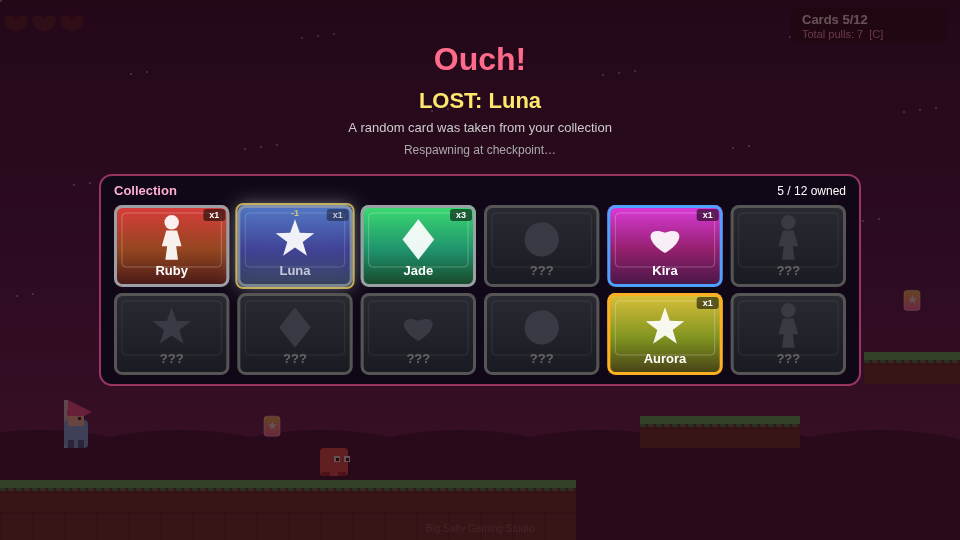
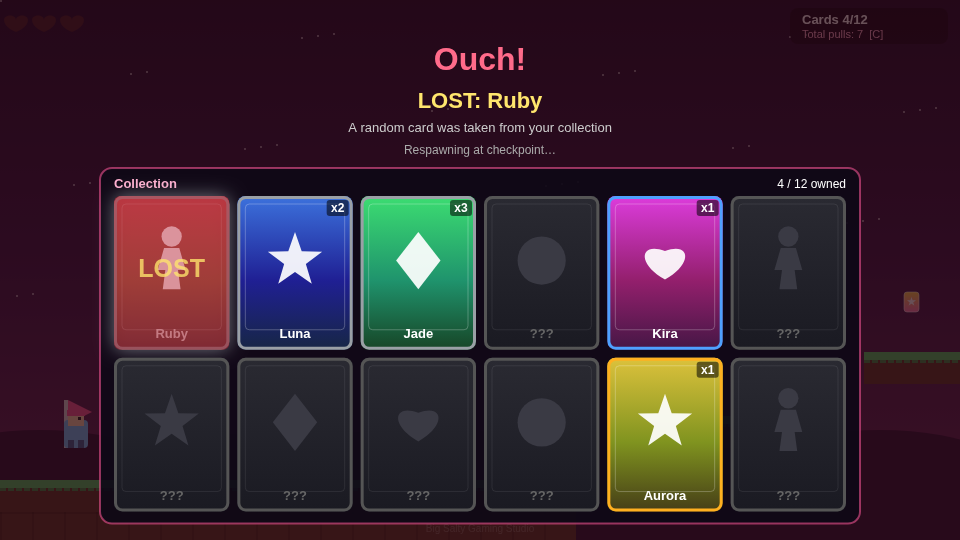
Enforce canonical 3:4 card aspect across all views
Shared CARD_ASPECT from slot 72×96; mini death/win panels size
the grid from width→height so cards are never squashed.

Changed region(s): [[0.0938, 0.2963, 0.9062, 0.9778], [0.4375, 0.1778, 0.5625, 0.2074], [0.9375, 0.5333, 0.9688, 0.563]]

diff --git a/index.html b/index.html
@@ -267,8 +267,16 @@ function drawSilhouette(cx, cy, size, shape, color, alpha) {
   ctx.restore();
 }
 
+// Canonical card aspect (width/height) from slot-roll card 72×96
+const CARD_ASPECT = 72 / 96; // 3/4
+function cardHeight(w) { return w / CARD_ASPECT; }
+function cardWidth(h) { return h * CARD_ASPECT; }
+
 function drawCard(char, x, y, w, h, opts) {
   opts = opts || {};
+  // Uniform scale only — height always derived from width via CARD_ASPECT
+  w = +w;
+  h = cardHeight(w);
   const rar = rarityOf(char.id);
   const locked = !!opts.locked;
   const glow = opts.glow || 0;
@@ -397,10 +405,13 @@ function makeCoins() {
     [89, 9],   // post-pit high ledge
     [121, 11], // near the goal / end perch
   ];
-  return spots.map(([tx,ty]) => ({
-    x: tx*TILE + 8, y: ty*TILE + 4, w: 16, h: 20,
-    collected: false, bob: Math.random()*Math.PI*2
-  }));
+  return spots.map(([tx,ty]) => {
+    const cw = 15;
+    return {
+      x: tx*TILE + 8, y: ty*TILE + 4, w: cw, h: cardHeight(cw),
+      collected: false, bob: Math.random()*Math.PI*2
+    };
+  });
 }
 
 // Enemies: type 'walker' | 'hopper'
@@ -1057,7 +1068,7 @@ function drawSlot() {
   }
 
   // card window
-  const cw = 72, ch = 96;
+  const cw = 72, ch = cardHeight(72); // canonical 72×96
   const gap = 14;
   const centerX = W/2;
   const cy = panelY + 40;
@@ -1109,7 +1120,7 @@ function drawCollection() {
   ctx.fillText("Press C or Esc to close", W/2, 64);
 
   const cols = 6, rows = 2;
-  const cw = 110, ch = 150, gapX = 24, gapY = 20;
+  const cw = 110, ch = cardHeight(110), gapX = 24, gapY = 20;
   const gridW = cols * cw + (cols - 1) * gapX;
   const startX = (W - gridW) / 2;
   const startY = 90;
@@ -1137,7 +1148,7 @@ function drawTitle() {
   // decorative cards
   for (let i = 0; i < 5; i++) {
     const ch = CHAR_DEFS[i * 2];
-    drawCard(ch, 60 + i * 180, 160 + Math.sin(performance.now()/500 + i)*10, 90, 120, {});
+    drawCard(ch, 60 + i * 180, 160 + Math.sin(performance.now()/500 + i)*10, 90, cardHeight(90), {});
   }
   ctx.fillStyle = "rgba(10,5,20,0.55)";
   ctx.fillRect(0, 0, W, H);
@@ -1164,16 +1175,41 @@ function drawTitle() {
 }
 
 // Compact collection strip for death / win overlays
+function layoutMiniCollection(panelW, maxPanelH) {
+  const cols = 6, rows = 2;
+  const gapX = 8, gapY = 8;
+  const padX = 14, padTop = 28, padBot = 12;
+  const gridW = panelW - padX * 2;
+  let cw = (gridW - gapX * (cols - 1)) / cols;
+  let ch = cardHeight(cw);
+  let contentH = padTop + rows * ch + (rows - 1) * gapY + padBot;
+  if (maxPanelH && contentH > maxPanelH) {
+    // Shrink uniformly so 2 rows fit without squashing
+    const maxCh = (maxPanelH - padTop - padBot - (rows - 1) * gapY) / rows;
+    ch = maxCh;
+    cw = cardWidth(ch);
+    contentH = padTop + rows * ch + (rows - 1) * gapY + padBot;
+  }
+  return { cols, rows, gapX, gapY, padX, padTop, padBot, cw, ch, contentH };
+}
+
 function drawMiniCollection(opts) {
   opts = opts || {};
-  const panelX = opts.x != null ? opts.x : 80;
-  const panelY = opts.y != null ? opts.y : H - 168;
-  const panelW = opts.w != null ? opts.w : W - 160;
-  const panelH = opts.h != null ? opts.h : 128;
+  const panelX = opts.x != null ? opts.x : 100;
+  const panelY = opts.y != null ? opts.y : 175;
+  const panelW = opts.w != null ? opts.w : W - 200;
+  const maxH = opts.maxH != null ? opts.maxH : (H - panelY - 20);
   const lostId = opts.lostId || null;
   const lostPrevCount = opts.lostPrevCount || 0;
   const animT = opts.animT != null ? opts.animT : 0;
   const animDur = opts.animDur != null ? opts.animDur : 2.2;
+
+  const L = layoutMiniCollection(panelW, maxH);
+  const panelH = L.contentH;
+
+  // Center grid horizontally if cards shrank below full width
+  const gridW = L.cols * L.cw + (L.cols - 1) * L.gapX;
+  const gridOriginX = panelX + (panelW - gridW) / 2;
 
   ctx.fillStyle = "rgba(12,8,22,0.88)";
   roundRect(panelX, panelY, panelW, panelH, 12);
@@ -1193,40 +1229,27 @@ function drawMiniCollection(opts) {
   ctx.textAlign = "right";
   ctx.fillText(unique + " / " + CHAR_DEFS.length + " owned", panelX + panelW - 14, panelY + 20);
 
-  const cols = 6, rows = 2;
-  const gapX = 8, gapY = 6;
-  const padX = 14, padTop = 30, padBot = 10;
-  const gridW = panelW - padX * 2;
-  const gridH = panelH - padTop - padBot;
-  const cw = (gridW - gapX * (cols - 1)) / cols;
-  const ch = (gridH - gapY * (rows - 1)) / rows;
-
   for (let i = 0; i < CHAR_DEFS.length; i++) {
-    const col = i % cols, row = Math.floor(i / cols);
-    const x = panelX + padX + col * (cw + gapX);
-    const y = panelY + padTop + row * (ch + gapY);
+    const col = i % L.cols, row = Math.floor(i / L.cols);
+    const x = gridOriginX + col * (L.cw + L.gapX);
+    const y = panelY + L.padTop + row * (L.ch + L.gapY);
     const char = CHAR_DEFS[i];
     const count = collection[char.id] || 0;
     const isLost = lostId && char.id === lostId;
+    const cw = L.cw, ch = L.ch;
 
     ctx.save();
     if (isLost) {
-      // Highlight + fade the lost slot over the death anim
       const u = Math.min(1, animT / animDur);
       const pulse = 0.55 + 0.45 * Math.sin(animT * 10);
       ctx.globalAlpha = Math.max(0.15, 1 - u * 0.85);
-      // Show as still "owned" visually during fade if it went to zero
-      const showCount = count > 0 ? count : Math.max(0, lostPrevCount - 1);
-      const locked = count <= 0 && lostPrevCount <= 1;
       if (count <= 0 && lostPrevCount >= 1) {
-        // draw as the card that is vanishing (was owned)
         drawCard(char, x, y, cw, ch, {
           locked: false,
           count: lostPrevCount > 1 ? lostPrevCount - 1 : null,
           showRarity: false,
           glow: pulse,
         });
-        // red LOST stamp
         ctx.globalAlpha = Math.min(1, 0.4 + u);
         ctx.fillStyle = "rgba(180,20,40,0.55)";
         roundRect(x, y, cw, ch, 6);
@@ -1260,6 +1283,7 @@ function drawMiniCollection(opts) {
     }
     ctx.restore();
   }
+  return { panelH, cw: L.cw, ch: L.ch, ratio: L.cw / L.ch };
 }
 
 function drawDead() {
@@ -1286,7 +1310,8 @@ function drawDead() {
   ctx.fillText("Respawning at checkpoint…", W/2, 154);
 
   drawMiniCollection({
-    x: 100, y: 175, w: W - 200, h: 210,
+    x: 100, y: 168, w: W - 200,
+    maxH: H - 168 - 16,
     lostId: loseAnim && loseAnim.lostId,
     lostPrevCount: loseAnim && loseAnim.lostPrevCount,
     animT: loseAnim ? loseAnim.t : 0,
@@ -1316,15 +1341,15 @@ function drawWin() {
     );
   }
 
-  drawMiniCollection({ x: 100, y: 120, w: W - 200, h: 280 });
+  const mini = drawMiniCollection({ x: 100, y: 118, w: W - 200, maxH: H - 118 - 70 });
 
   ctx.fillStyle = "#ffe66d";
   ctx.font = "bold 16px sans-serif";
   ctx.textAlign = "center";
-  ctx.fillText("Press R or Enter to Restart", W/2, H - 48);
+  ctx.fillText("Press R or Enter to Restart", W/2, Math.min(H - 48, 118 + mini.panelH + 28));
   ctx.fillStyle = "#aaa";
   ctx.font = "13px sans-serif";
-  ctx.fillText("Press C to view full collection", W/2, H - 26);
+  ctx.fillText("Press C to view full collection", W/2, Math.min(H - 26, 118 + mini.panelH + 50));
 }
 
 function frame(dt) {
@@ -1420,6 +1445,24 @@ window.__HBC = {
   getCollection: () => collection,
   getSlot: () => slot,
   getSlotQueue: () => slotQueue,
+  getCardAspect: () => CARD_ASPECT,
+  getCardLayouts: () => {
+    const slot = { w: 72, h: cardHeight(72) };
+    const collection = { w: 110, h: cardHeight(110) };
+    const title = { w: 90, h: cardHeight(90) };
+    const world = { w: 15, h: cardHeight(15) };
+    const death = layoutMiniCollection(W - 200, H - 168 - 16);
+    const win = layoutMiniCollection(W - 200, H - 118 - 70);
+    return {
+      aspect: CARD_ASPECT,
+      slot: { ...slot, ratio: slot.w / slot.h },
+      collection: { ...collection, ratio: collection.w / collection.h },
+      title: { ...title, ratio: title.w / title.h },
+      worldPickup: { ...world, ratio: world.w / world.h },
+      miniDeath: { w: death.cw, h: death.ch, ratio: death.cw / death.ch },
+      miniWin: { w: win.cw, h: win.ch, ratio: win.cw / win.ch },
+    };
+  },
   getCenteredCard: () => {
     if (!slot) return null;
     const idx = Math.round(slot.offset);

diff --git a/README.md b/README.md
@@ -18,6 +18,7 @@ On touch devices, on-screen buttons appear (← → jump C).
 
 ## Design notes (prototype)
 
+- **Card art**: all cards use a shared **3:4** aspect (`CARD_ASPECT = 72/96`); views scale uniformly (no squash).
 - **Collectibles**: **6** card-coins in the level (sparse: start, optional highs, pit, end). Respawns on death.
 - **Coins → cards**: touching a coin runs a ~1.2s slot/lottery roll panel at the top as an **overlay** — gameplay does **not** pause (move, jump, enemies, physics, camera all keep going). Extra coins touched during a roll are **queued** (queue count shown). The strip eases onto a **pre-planted** result card (no end snap). Short reveal (~0.275s) then `NEW!` / `DUPE` callout (~0.4s). Hits during a roll work normally; if you die mid-roll, the roll (and queue) still finish and grant cards; the lost card is picked from cards you already owned.
 - **Hearts**: 3 HP. Monster contact = −1 heart, knockback + invulnerability flash. Stomp from above to defeat enemies.
